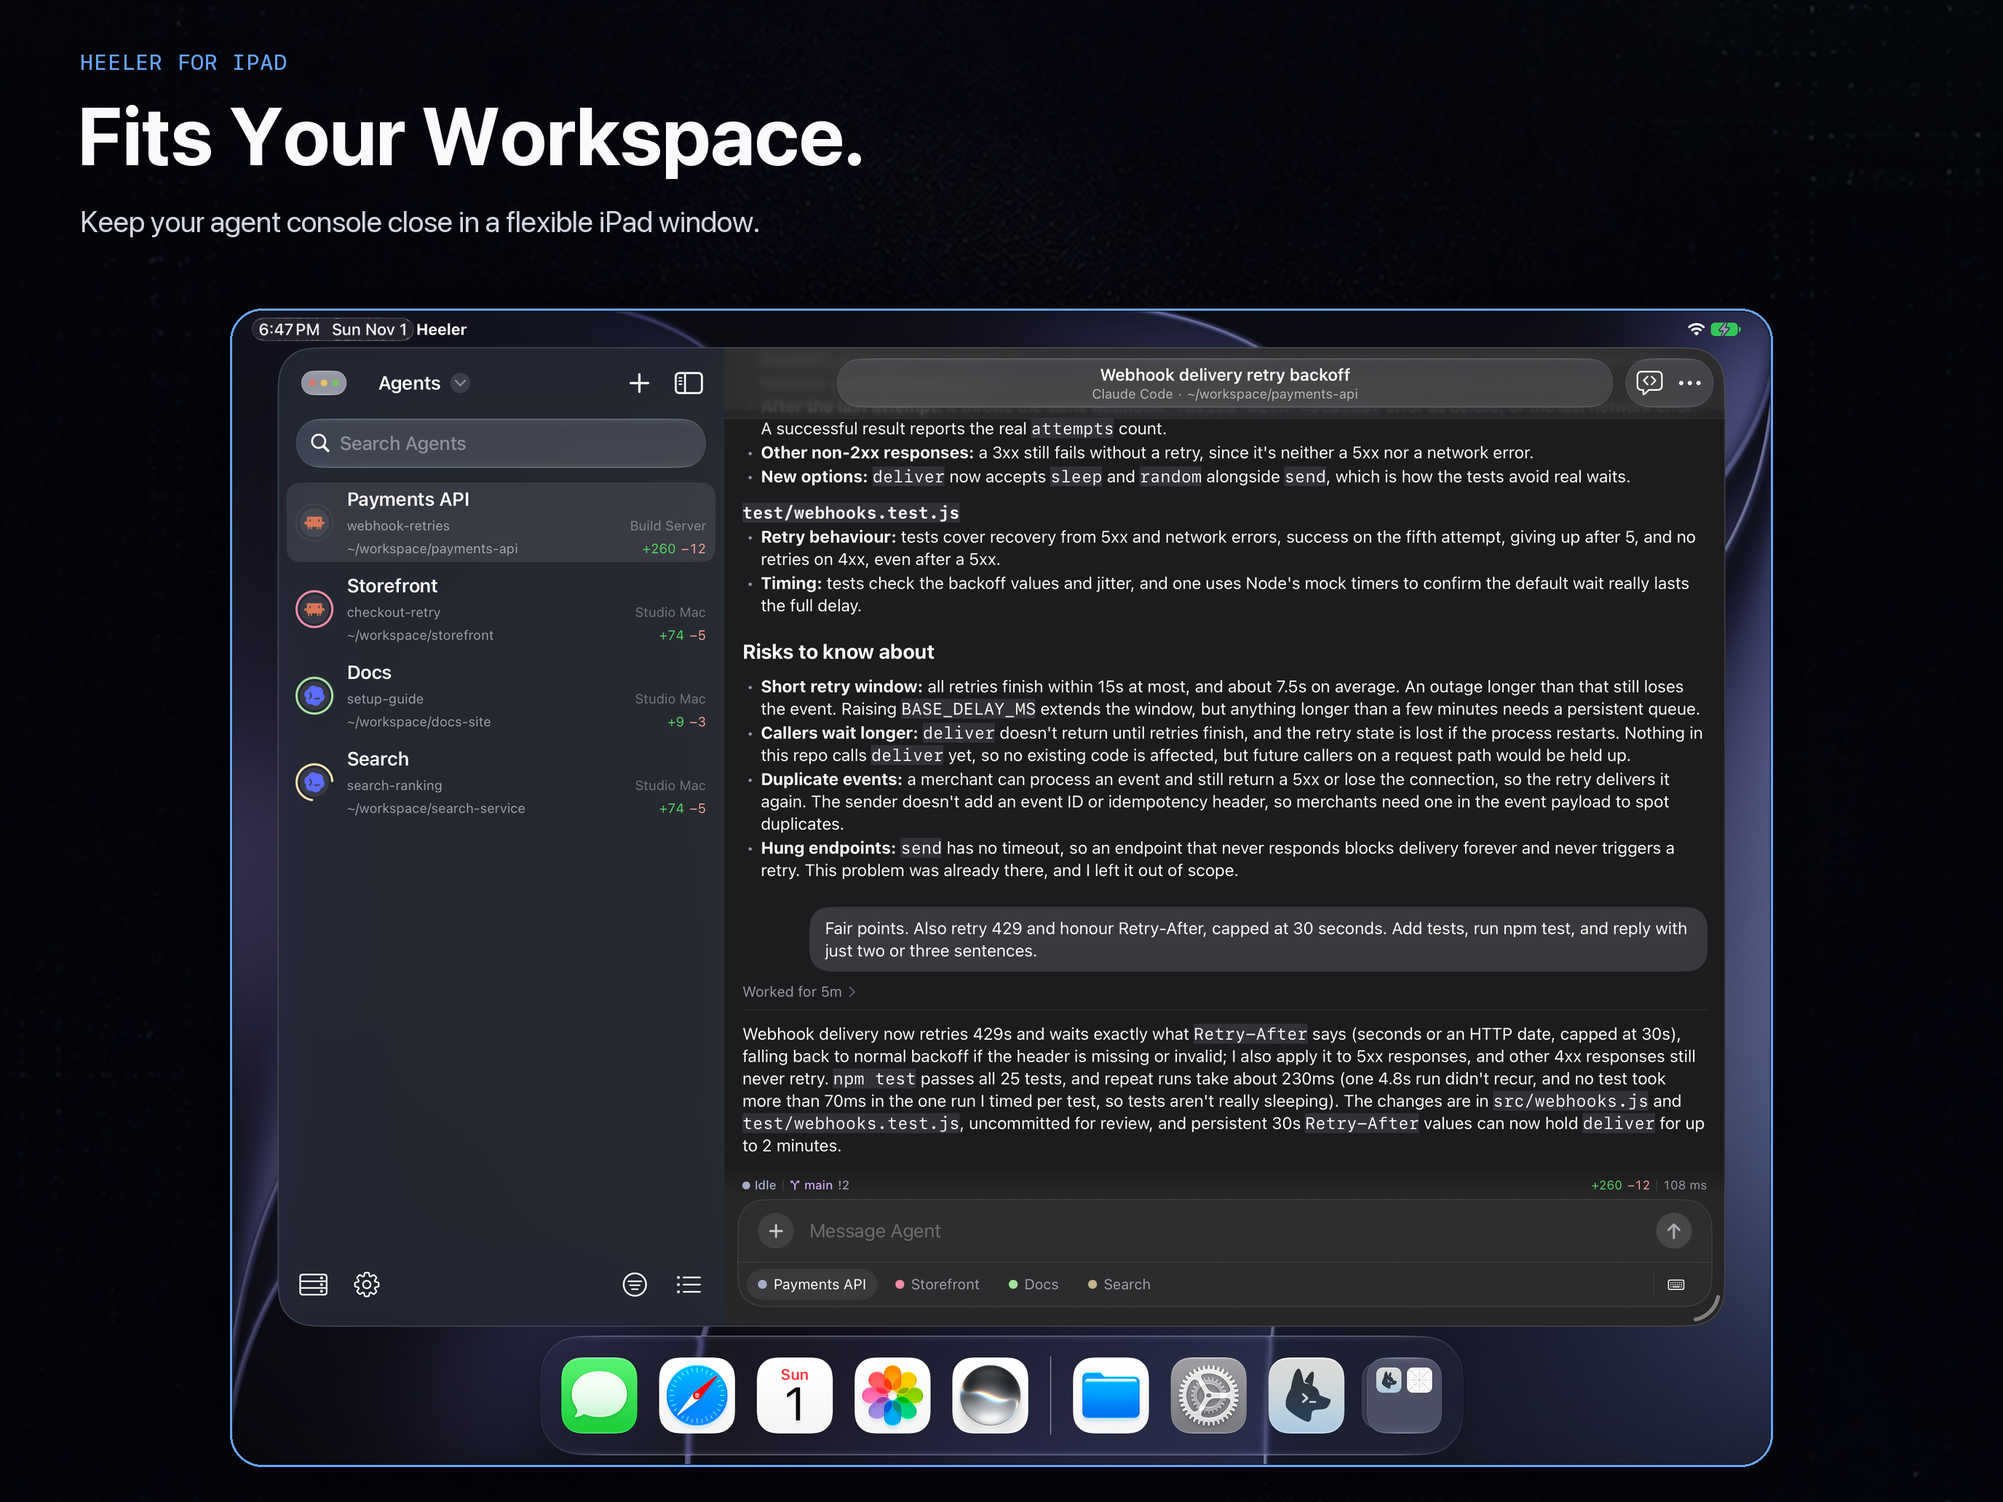
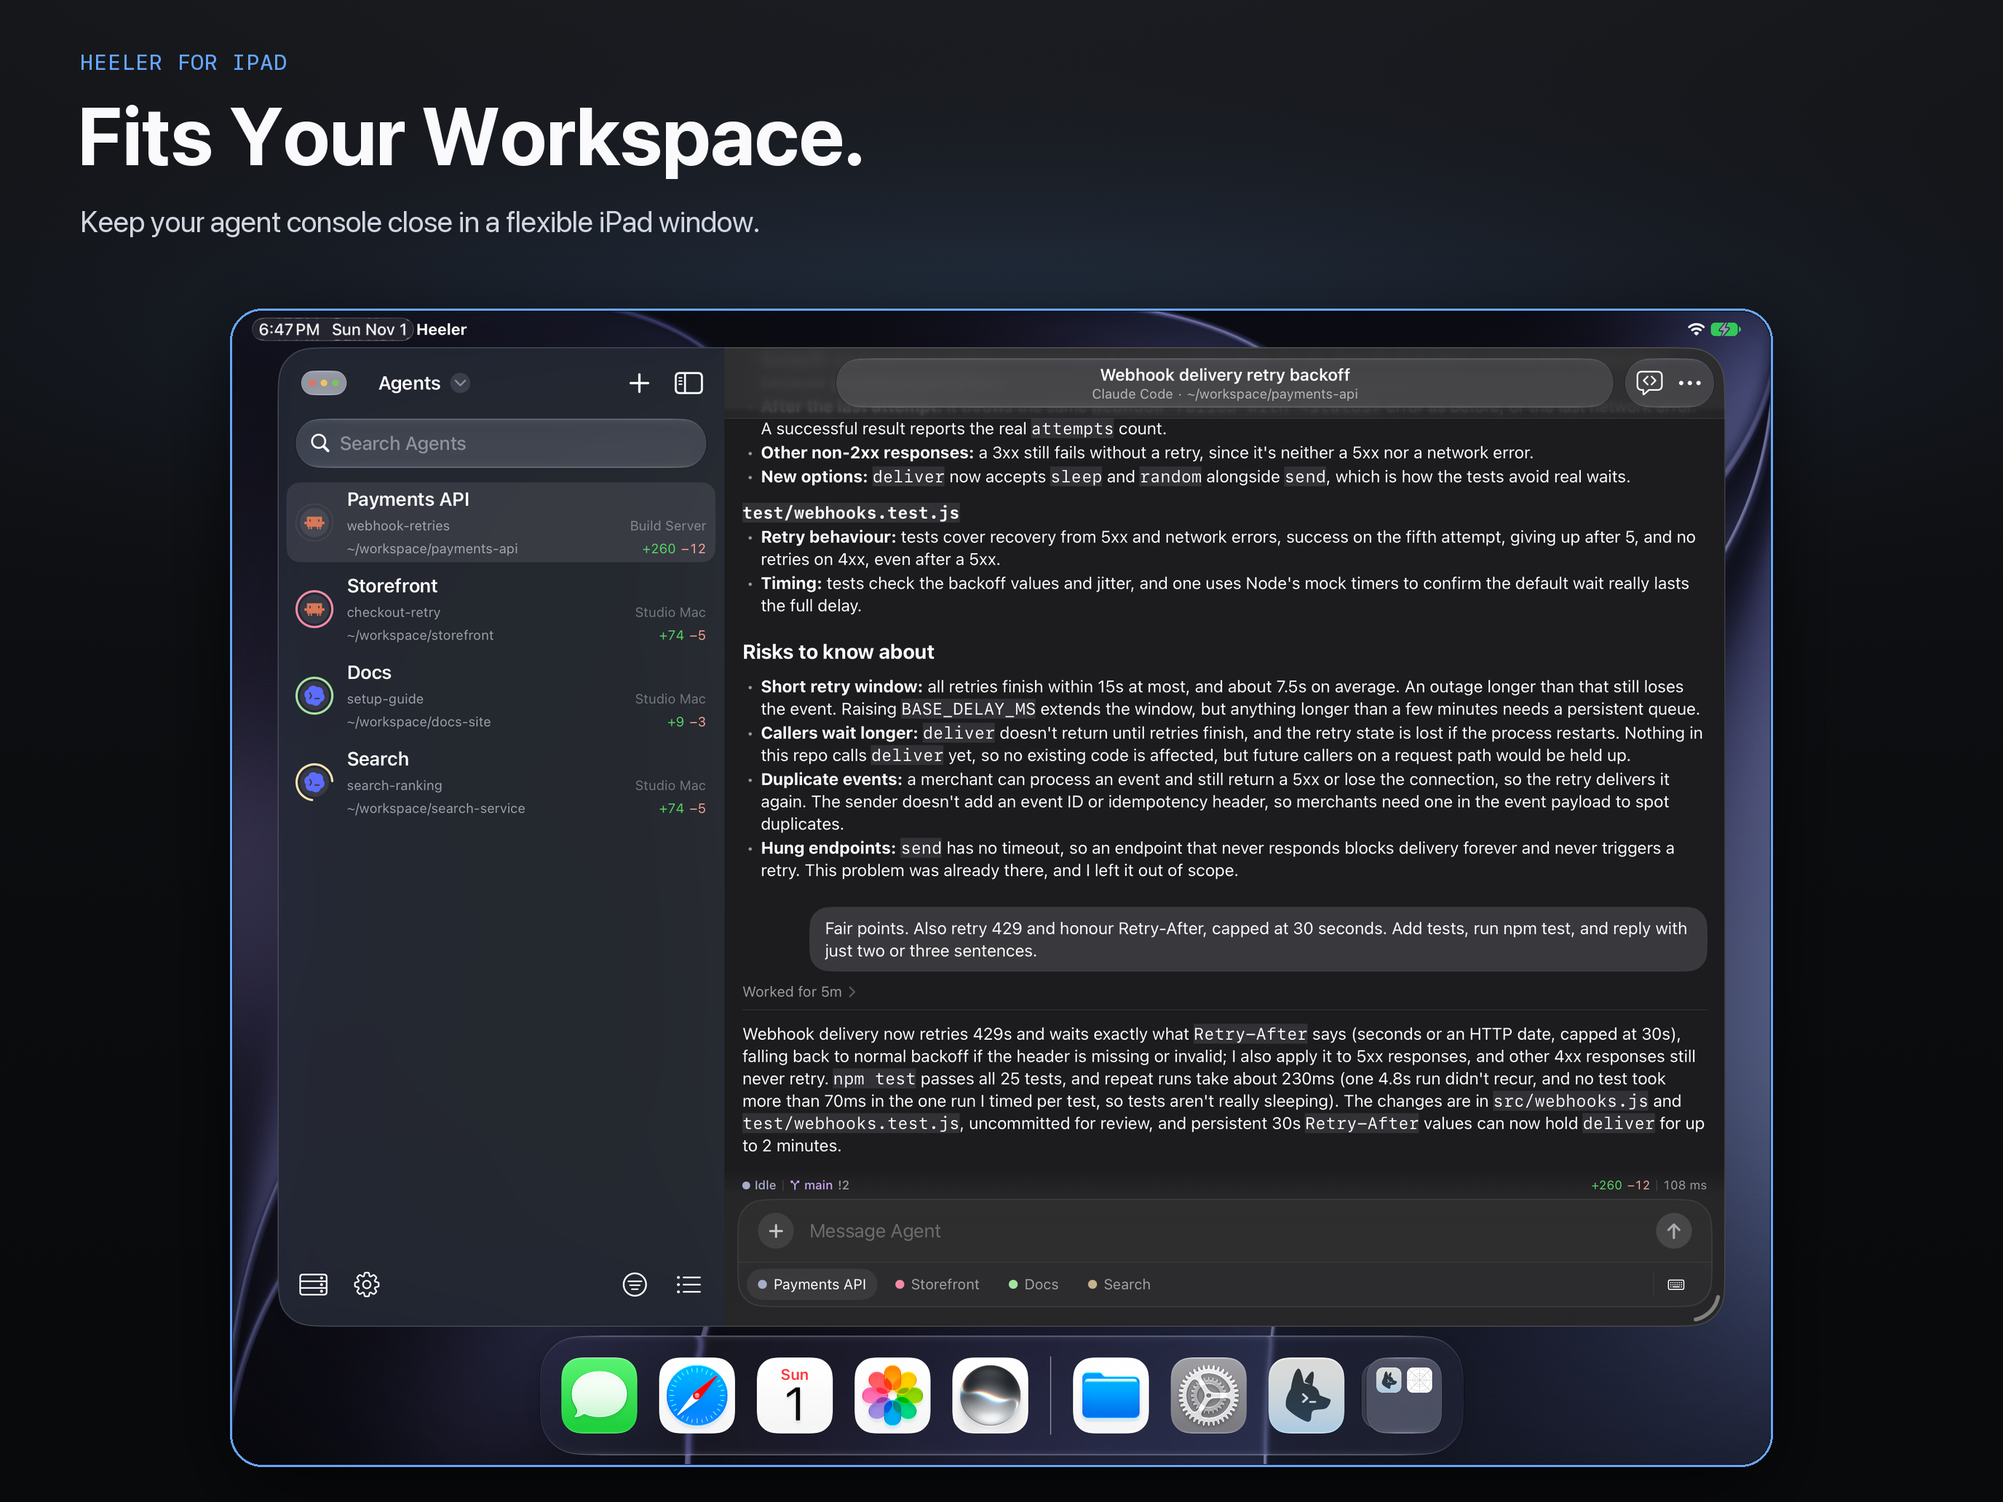
docs(app-store): put the screenshots on the landing page graphite
The iPhone and iPad images sat on a generated purple and teal texture. backdrop.py now draws the landing page's neutral graphite, with a faint light in each image's accent behind the top of the screenshot, so the composers need NumPy beside Pillow.

The voice image screens the reply above the bar onto the field. Pasted, the app's black background showed as a band on the lighter graphite.

Changed region(s): [[0.0938, 0.093, 0.9062, 0.2171]]

diff --git a/output/app-store/voice/compose_voice.py b/output/app-store/voice/compose_voice.py
@@ -8,13 +8,17 @@ scaled uniformly and masked; no UI is repainted.
 
 from __future__ import annotations
 
+import sys
 from pathlib import Path
 
-from PIL import Image, ImageChops, ImageDraw, ImageFilter, ImageFont, ImageOps
+from PIL import Image, ImageChops, ImageDraw, ImageFilter, ImageFont
 
 
 HERE = Path(__file__).resolve().parent
 STORE = HERE.parent
+sys.path.insert(0, str(STORE))
+from backdrop import backdrop  # noqa: E402
+
 SF = "/System/Library/Fonts/SFNS.ttf"
 MONO = "/System/Library/Fonts/SFNSMono.ttf"
 SLUG = "01b-just-say-it.png"
@@ -97,8 +101,13 @@ def card(canvas: Image.Image, image: Image.Image, xy: tuple[int, int], radius: i
 
 
 def context(canvas: Image.Image, image: Image.Image, xy: tuple[int, int], sides: int = 0) -> None:
-    """The Agent's last reply, fading in from the top, for a sense of place."""
-    layer = image.convert("RGBA")
+    """The Agent's last reply, fading in from the top, for a sense of place.
+
+    It is screened onto the field, so the app's black background adds nothing
+    and no band shows where the piece ends.
+    """
+    under = canvas.crop((xy[0], xy[1], xy[0] + image.width, xy[1] + image.height)).convert("RGB")
+    layer = ImageChops.screen(under, image).convert("RGBA")
     layer.putalpha(edges(image.size, left=sides, right=sides, top=image.height * 4 // 5, bottom=14))
     canvas.alpha_composite(layer, xy)
 
@@ -117,16 +126,11 @@ def footnote(canvas: Image.Image, center: int, y: int, size: int) -> None:
                                 fill=(190, 196, 214, 255), anchor="mm")
 
 
-def textured(path: Path, size: tuple[int, int]) -> Image.Image:
-    return ImageOps.fit(Image.open(path).convert("RGB"), size, method=Image.Resampling.LANCZOS).convert("RGBA")
-
-
 def iphone() -> Image.Image:
     size = (1320, 2868)
     recording = source("iphone-recording.png", size)
     draft = source("iphone-draft.png", size)
-    canvas = Image.alpha_composite(textured(STORE / "iphone-6.9/assets/background.png", size),
-                                   Image.new("RGBA", size, (4, 5, 12, 120)))
+    canvas = backdrop(size)
     draw = ImageDraw.Draw(canvas)
     draw.line((96, 98, 170, 98), fill=(*ACCENT, 255), width=8)
     draw.text((96, 126), "HEELER FOR IPHONE", font=font(MONO, 31, "Medium"), fill=(*ACCENT, 255))
@@ -150,12 +154,7 @@ def ipad() -> Image.Image:
     size = (2752, 2064)
     recording = source("ipad-recording.png", size)
     draft = source("ipad-draft.png", size)
-    canvas = textured(STORE / "ipad-13/assets/background.png", size)
-    veil = Image.new("RGBA", size)
-    veil_draw = ImageDraw.Draw(veil)
-    for y in range(size[1]):
-        veil_draw.line((0, y, size[0], y), fill=(3, 5, 11, round(68 + 68 * y / size[1])))
-    canvas = Image.alpha_composite(canvas, veil)
+    canvas = backdrop(size)
     draw = ImageDraw.Draw(canvas)
     draw.text((110, 75), "HEELER FOR IPAD", font=font(MONO, 30, "Medium"), fill=(*ACCENT, 255), anchor="lt")
     draw.text((106, 144), HEADLINE, font=font(SF, 112, "Bold"), fill=(250, 250, 253, 255), anchor="lt")

diff --git a/output/app-store/servers/compose_servers.py b/output/app-store/servers/compose_servers.py
@@ -9,13 +9,17 @@ is repainted.
 
 from __future__ import annotations
 
+import sys
 from pathlib import Path
 
-from PIL import Image, ImageDraw, ImageFilter, ImageFont, ImageOps
+from PIL import Image, ImageDraw, ImageFilter, ImageFont
 
 
 HERE = Path(__file__).resolve().parent
 STORE = HERE.parent
+sys.path.insert(0, str(STORE))
+from backdrop import backdrop  # noqa: E402
+
 SF = "/System/Library/Fonts/SFNS.ttf"
 MONO = "/System/Library/Fonts/SFNSMono.ttf"
 SLUG = "01a-herdr-tmux-rex.png"
@@ -99,10 +103,6 @@ def footnote(canvas: Image.Image, center: int, y: int, size: int) -> None:
                                 fill=(190, 196, 214, 255), anchor="mm")
 
 
-def textured(path: Path, size: tuple[int, int]) -> Image.Image:
-    return ImageOps.fit(Image.open(path).convert("RGB"), size, method=Image.Resampling.LANCZOS).convert("RGBA")
-
-
 def side_by_side(canvas: Image.Image, row: Image.Image, servers: Image.Image, margin: int, middle: int,
                  radii: tuple[int, int]) -> Image.Image:
     """The Host's row on the left, its Servers on the right, joined by dots."""
@@ -123,8 +123,7 @@ def side_by_side(canvas: Image.Image, row: Image.Image, servers: Image.Image, ma
 def iphone() -> Image.Image:
     hosts = source("iphone-hosts.png", IPHONE)
     host = source("iphone-host.png", IPHONE)
-    canvas = Image.alpha_composite(textured(STORE / "iphone-6.9/assets/background.png", IPHONE),
-                                   Image.new("RGBA", IPHONE, (4, 5, 12, 120)))
+    canvas = backdrop(IPHONE)
     draw = ImageDraw.Draw(canvas)
     draw.line((96, 98, 170, 98), fill=(*ACCENT, 255), width=8)
     draw.text((96, 126), "HEELER FOR IPHONE", font=font(MONO, 31, "Medium"), fill=(*ACCENT, 255))
@@ -152,12 +151,7 @@ def ipad() -> Image.Image:
     size = (2752, 2064)
     hosts = source("ipad-hosts.png", size)
     host = source("ipad-host.png", size)
-    canvas = textured(STORE / "ipad-13/assets/background.png", size)
-    veil = Image.new("RGBA", size)
-    veil_draw = ImageDraw.Draw(veil)
-    for y in range(size[1]):
-        veil_draw.line((0, y, size[0], y), fill=(3, 5, 11, round(68 + 68 * y / size[1])))
-    canvas = Image.alpha_composite(canvas, veil)
+    canvas = backdrop(size)
     draw = ImageDraw.Draw(canvas)
     draw.text((110, 75), "HEELER FOR IPAD", font=font(MONO, 30, "Medium"), fill=(*ACCENT, 255), anchor="lt")
     draw.text((106, 144), HEADLINE, font=font(SF, 112, "Bold"), fill=(250, 250, 253, 255), anchor="lt")

diff --git a/output/app-store/iphone-6.9/compose_mockups.py b/output/app-store/iphone-6.9/compose_mockups.py
@@ -3,21 +3,27 @@
 
 from __future__ import annotations
 
+import sys
 from dataclasses import dataclass
 from pathlib import Path
 
-from PIL import Image, ImageDraw, ImageFilter, ImageFont, ImageOps
+from PIL import Image, ImageDraw, ImageFilter, ImageFont
+
+sys.path.insert(0, str(Path(__file__).resolve().parents[1]))
+from backdrop import backdrop  # noqa: E402
 
 
 ROOT = Path(__file__).resolve().parents[3]
 OUTPUT_DIR = Path(__file__).resolve().parent / "exports"
 SOURCES_DIR = Path(__file__).resolve().parent / "sources"
-BACKGROUND_PATH = Path(__file__).resolve().parent / "assets" / "background.png"
 
 CANVAS_SIZE = (1320, 2868)
 SCREENSHOT_WIDTH = 1010
 SCREENSHOT_TOP = 646
 SCREENSHOT_RADIUS = 78
+# The accent's light sits behind the top of the screenshot.
+LIGHT_CENTER = (CANVAS_SIZE[0] / 2, SCREENSHOT_TOP + 40)
+LIGHT_RADII = (871, 488)
 
 FONT_PATH = Path("/System/Library/Fonts/SFNS.ttf")
 MONO_FONT_PATH = Path("/System/Library/Fonts/SFNSMono.ttf")
@@ -181,13 +187,10 @@ def source_path(mockup: Mockup) -> Path:
 
 
 def compose(mockup: Mockup, screenshot: Image.Image) -> Path:
-    background = Image.open(BACKGROUND_PATH).convert("RGB")
-    canvas = ImageOps.fit(background, CANVAS_SIZE, method=Image.Resampling.LANCZOS)
+    canvas = backdrop(CANVAS_SIZE, light=(mockup.accent, LIGHT_CENTER, LIGHT_RADII))
     overlay = Image.new("RGBA", CANVAS_SIZE, (0, 0, 0, 0))
     overlay_draw = ImageDraw.Draw(overlay)
 
-    # Keep the generated texture visible at the edges while giving copy a quiet field.
-    overlay_draw.rectangle((0, 0, CANVAS_SIZE[0], 630), fill=(4, 5, 12, 82))
     overlay_draw.line((96, 98, 170, 98), fill=(*mockup.accent, 255), width=8)
 
     kicker_font = load_font(MONO_FONT_PATH, 31, "Medium")
@@ -215,7 +218,7 @@ def compose(mockup: Mockup, screenshot: Image.Image) -> Path:
         fill=(211, 214, 225, 255),
         spacing=7,
     )
-    canvas = Image.alpha_composite(canvas.convert("RGBA"), overlay)
+    canvas = Image.alpha_composite(canvas, overlay)
 
     screenshot_height = round(screenshot.height * SCREENSHOT_WIDTH / screenshot.width)
     screenshot = screenshot.resize(

diff --git a/output/app-store/backdrop.py b/output/app-store/backdrop.py
@@ -1,0 +1,43 @@
+"""The field behind the App Store screenshots: the landing page's graphite.
+
+Neutral near-black, a little lighter toward the top edge, with an optional
+faint light in one image's accent. Drawn in floating point and dithered, so
+the slow gradients do not band, and the same call always gives the same pixels.
+"""
+
+from __future__ import annotations
+
+import numpy as np
+from PIL import Image
+
+TOP = (16.0, 17.0, 20.0)
+BOTTOM = (9.0, 10.0, 12.0)
+TOP_LIGHT = (11.0, 11.5, 13.0)
+ACCENT_STRENGTH = 0.15
+
+Color = tuple[int, int, int]
+Point = tuple[float, float]
+
+
+def _falloff(size: tuple[int, int], center: Point, radii: Point) -> np.ndarray:
+    """A Gaussian spot, 1 at `center` and about 0.14 one radius away."""
+    x = np.exp(-2 * ((np.arange(size[0]) - center[0]) / radii[0]) ** 2)
+    y = np.exp(-2 * ((np.arange(size[1]) - center[1]) / radii[1]) ** 2)
+    return np.outer(y, x)[..., None]
+
+
+def backdrop(size: tuple[int, int], light: tuple[Color, Point, Point] | None = None) -> Image.Image:
+    """The field at `size`, as RGBA. `light` is an accent color, its center and its radii."""
+    width, height = size
+    ramp = np.linspace(0, 1, height)[:, None, None]
+    ramp = ramp * ramp * (3 - 2 * ramp)
+    field = np.array(TOP) * (1 - ramp) + np.array(BOTTOM) * ramp
+    field = field + _falloff(size, (width / 2, -0.06 * height), (0.95 * width, 0.30 * height)) * np.array(TOP_LIGHT)
+    if light is not None:
+        color, center, radii = light
+        field = field + _falloff(size, center, radii) * np.array(color, float) * ACCENT_STRENGTH
+    # Interleaved gradient noise: half a level of dither with no random state.
+    x, y = np.arange(width)[None, :], np.arange(height)[:, None]
+    noise = (52.9829189 * ((0.06711056 * x + 0.00583715 * y) % 1)) % 1 - 0.5
+    pixels = np.clip(np.rint(field + noise[..., None]), 0, 255).astype(np.uint8)
+    return Image.fromarray(pixels, "RGB").convert("RGBA")

diff --git a/output/app-store/ipad-13/compose_mockups.py b/output/app-store/ipad-13/compose_mockups.py
@@ -6,16 +6,23 @@ from __future__ import annotations
 import hashlib
 import html
 import json
+import sys
 from dataclasses import asdict, dataclass
 from pathlib import Path
 
-from PIL import Image, ImageDraw, ImageFilter, ImageFont, ImageOps
+from PIL import Image, ImageDraw, ImageFilter, ImageFont
+
+sys.path.insert(0, str(Path(__file__).resolve().parents[1]))
+from backdrop import backdrop  # noqa: E402
 
 
 ROOT = Path(__file__).resolve().parent
 SIZE = (2752, 2064)
 SHOT_SIZE = (2112, 1584)
 SHOT_ORIGIN = (320, 428)
+# The accent's light sits behind the top of the screenshot, flat enough to leave the headline on graphite.
+LIGHT_CENTER = (SIZE[0] / 2, SHOT_ORIGIN[1] + 40)
+LIGHT_RADII = (1500, 320)
 FONT = "/System/Library/Fonts/SFNS.ttf"
 MONO = "/System/Library/Fonts/SFNSMono.ttf"
 
@@ -88,16 +95,7 @@ def compose(item: Mockup) -> dict:
     if source.width * SHOT_SIZE[1] != source.height * SHOT_SIZE[0]:
         raise ValueError("The screenshot must retain its original aspect ratio")
 
-    background = ImageOps.fit(
-        Image.open(ROOT / "assets/background.png").convert("RGB"), SIZE,
-        method=Image.Resampling.LANCZOS,
-    ).convert("RGBA")
-    # Match the approved preview's quiet text field and darker lower background.
-    veil = Image.new("RGBA", SIZE)
-    veil_draw = ImageDraw.Draw(veil)
-    for y in range(SIZE[1]):
-        veil_draw.line((0, y, SIZE[0], y), fill=(3, 5, 11, round(68 + 68 * y / SIZE[1])))
-    canvas = Image.alpha_composite(background, veil)
+    canvas = backdrop(SIZE, light=(item.accent, LIGHT_CENTER, LIGHT_RADII))
     draw = ImageDraw.Draw(canvas)
     draw.text((110, 75), "HEELER FOR IPAD", font=font(MONO, 30, "Medium"),
               fill=(*item.accent, 255), anchor="lt")

diff --git a/output/app-store/iphone-6.9/README.md b/output/app-store/iphone-6.9/README.md
@@ -1,8 +1,8 @@
 # Heeler iPhone App Store screenshots
 
 These exports preserve the exact application UI from the committed iPhone
-captures and add deterministic marketing copy over a generated background. The
-order follows the iPhone screens on the landing page.
+captures and add deterministic marketing copy over the landing page's graphite.
+The order follows the iPhone screens on the landing page.
 
 ## Exports
 
@@ -28,14 +28,16 @@ The iPad set is `../ipad-13/`.
 
 ## Provenance
 
-The background was generated with OpenAI image generation as an abstract,
-text-free dark terminal texture. All UI, headlines, subheads, borders, masks,
-and sizing are composed locally by compose_mockups.py; the source screenshots
-are never redrawn by a generative model.
+`../backdrop.py` draws the background: the landing page's neutral graphite, a
+little lighter toward the top edge, with a faint light in each image's accent
+behind the top of the screenshot. It replaced a texture from OpenAI image
+generation in 0.1.21, so nothing in these exports comes from a generative
+model. All UI, headlines, subheads, borders, masks, and sizing are composed
+locally by compose_mockups.py.
 
 ## Regenerate
 
-Run from the repository root with Pillow installed:
+Run from the repository root with Pillow and NumPy installed:
 
 ```sh
 python3 output/app-store/iphone-6.9/compose_mockups.py

diff --git a/output/app-store/ipad-13/README.md b/output/app-store/ipad-13/README.md
@@ -39,7 +39,8 @@ exports and is excluded from Git.
 - Source captures are copied unchanged. The renderer scales each 4:3 capture
   uniformly to 2112 × 1584, with a small rounded corner mask. It does not redraw,
   rearrange, stretch, or replace any application content.
-- The generated background is shared with `../iphone-6.9/assets/background.png`.
+- `../backdrop.py` draws the background, as it does for iPhone: neutral graphite
+  with a faint light in each image's accent behind the top of the screenshot.
   Headlines, subheads, frame, and shadow are deterministic compositions adapted
   from the existing iPhone renderer and the approved iPad HTML preview.
 - Source and export SHA-256 values, copy, geometry, and format are recorded in
@@ -58,7 +59,7 @@ Connect upload or product-page preview was performed.
 
 ## Regenerate
 
-From the repository root, with Pillow installed:
+From the repository root, with Pillow and NumPy installed:
 
 ```sh
 python3 output/app-store/ipad-13/compose_mockups.py

diff --git a/output/app-store/voice/README.md b/output/app-store/voice/README.md
@@ -33,11 +33,12 @@ recorder only existed in a local build and is not in the repository.
 
 ## Regenerate
 
-From the repository root, with Pillow installed:
+From the repository root, with Pillow and NumPy installed:
 
 ```sh
 python3 output/app-store/voice/compose_voice.py
 ```
 
 The renderer crops and scales the captures uniformly, then masks them. It does
-not redraw any application content.
+not redraw any application content. The reply above the bar is screened onto
+the background, so the app's black adds nothing where the piece ends.

diff --git a/docs/agents/store-screenshots.md b/docs/agents/store-screenshots.md
@@ -16,6 +16,9 @@ Compose scripts live with their exports:
 | Header and Search Results | `output/app-store/creative-assets/` | `compose_creative.py` |
 | Listing text (`promo`, `keywords`, `description`) | `output/app-store/copy/` | `test-store-shots.py` |
 
+`output/app-store/backdrop.py` draws the graphite background of the iPhone and
+iPad images. The compose scripts need Pillow and NumPy.
+
 ## 1. Start the Agents
 
 ```sh

diff --git a/output/app-store/servers/README.md b/output/app-store/servers/README.md
@@ -31,7 +31,7 @@ Agent runs on any of them.
 
 ## Regenerate
 
-From the repository root, with Pillow installed:
+From the repository root, with Pillow and NumPy installed:
 
 ```sh
 python3 output/app-store/servers/compose_servers.py
